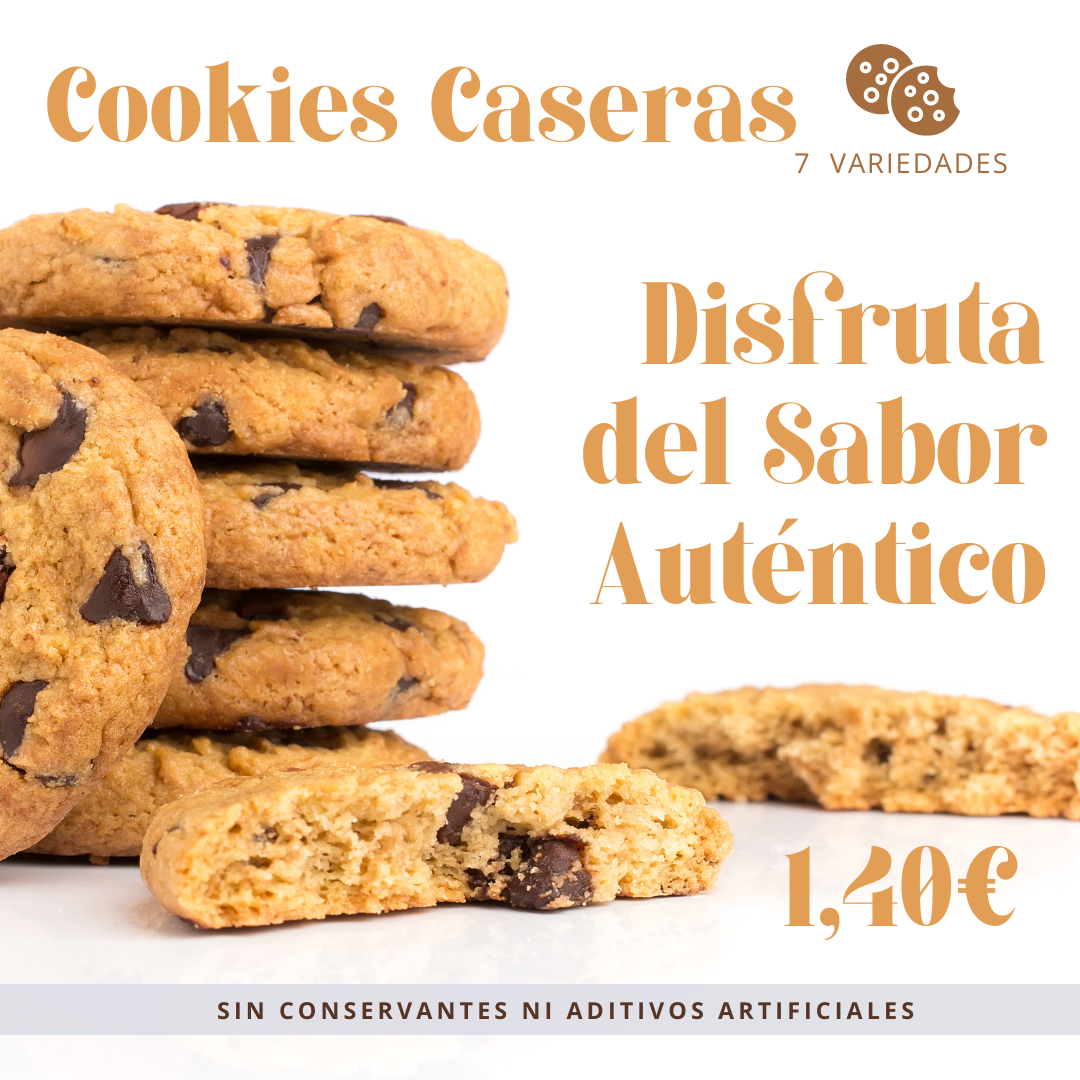
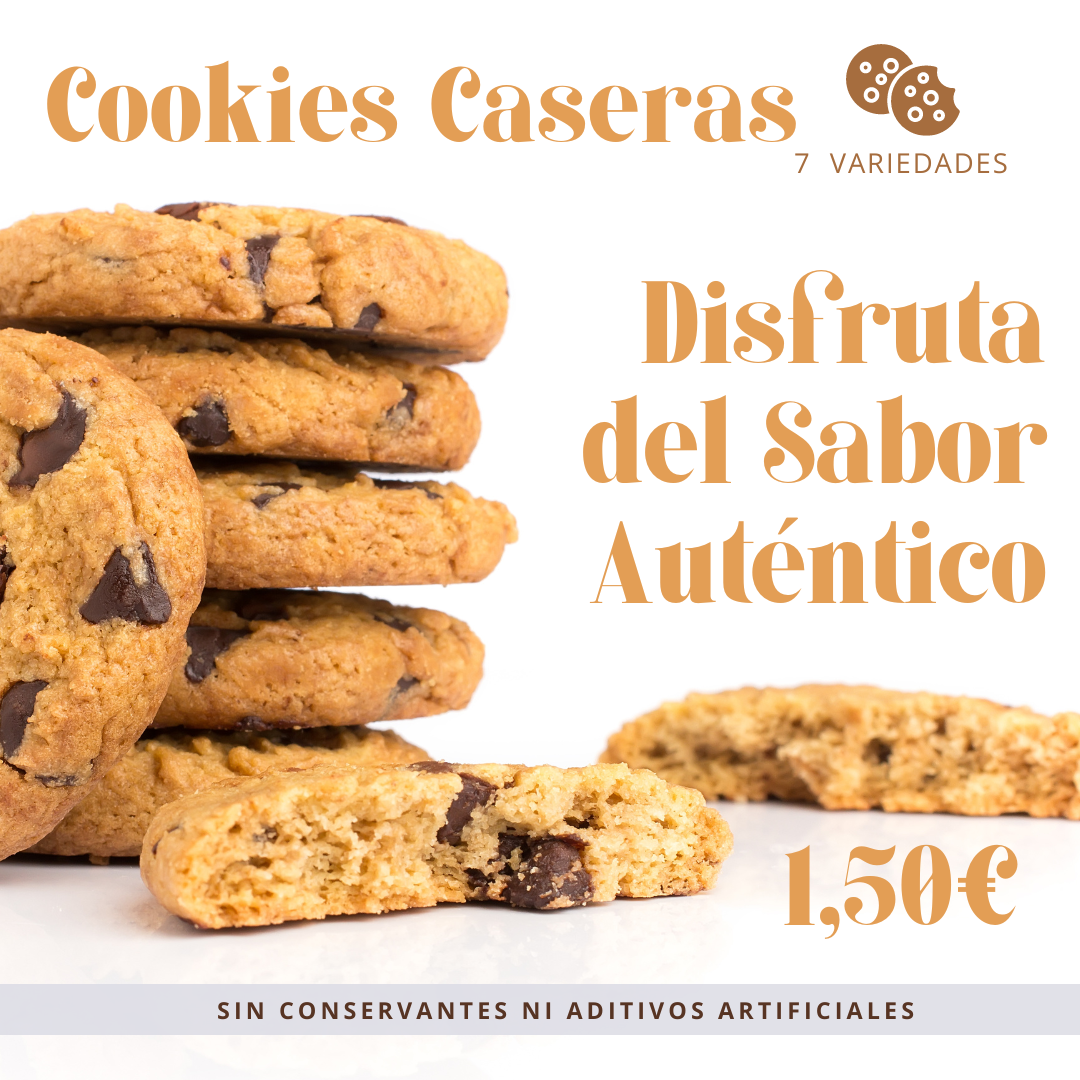
deploy: 894c5e8bc299e5bf3e7f7fc31a8815df647df799

diff --git a/index.html b/index.html
@@ -87,7 +87,7 @@ Carta</span></h2><div class=border-meghna></div></div></div></div><div class="ro
 <span>No hay nada con esos filtros, prueba a usar otros.</span></div></div><div id=menu-items class=d-none><figure class="col-lg-4 shuffle-item" data-groups='["0e4289bca67302dd005790003de478e2","b34b0f802613ce0a65924e6e6d56087d"]'><div class="menu-block mb-4"><a class=open-popup-inline href=#carta-img0><img class="lozad img-fluid" data-src=/carta/bewelcome_hua4a24952fda6eebb5dafff957c1e7196_62650_465x350_fit_q100_box.jpg alt="Be Welcome🍍🆕"><div class=caption><span>Be Welcome🍍🆕</span>
 <i class="las la-search"></i></div></a></div></figure><figure class="col-lg-4 shuffle-item" data-groups='["0e4289bca67302dd005790003de478e2","b34b0f802613ce0a65924e6e6d56087d"]'><div class="menu-block mb-4"><a class=open-popup-inline href=#carta-img1><img class="lozad img-fluid" data-src=/carta/boston_hu4cbe4d6e5e25aed4658e0730ecbf11c0_65285_465x350_fit_q100_box.jpg alt="Boston Beach🍓🆕"><div class=caption><span>Boston Beach🍓🆕</span>
 <i class="las la-search"></i></div></a></div></figure><figure class="col-lg-4 shuffle-item" data-groups='["ecf13d5ef58c49cc1a969b29140c8143","734300b6e0762615d0ee649310df1fda","3b0be7882cac5ce1fbe220f07400e2cd"]'><div class="menu-block mb-4"><a class=open-popup-inline href=#carta-img2><img class="lozad img-fluid" data-src=/carta/tarta_hu611a2356e7e6cb89778258ab8c3688b9_1671486_465x350_fit_q100_bgffffff_box_3.jpg alt="Café o té + Tarta del día"><div class=caption><span>Café o té + Tarta del día</span>
-<i class="las la-search"></i></div></a></div></figure><figure class="col-lg-4 shuffle-item" data-groups='["ecf13d5ef58c49cc1a969b29140c8143","734300b6e0762615d0ee649310df1fda"]'><div class="menu-block mb-4"><a class=open-popup-inline href=#carta-img3><img class="lozad img-fluid" data-src=/carta/cookiescaseras_huff57a1b69ea657f90009d692e6bed37c_1076562_465x350_fit_q100_bgffffff_box_3.jpg alt="Cookies Caseras"><div class=caption><span>Cookies Caseras</span>
+<i class="las la-search"></i></div></a></div></figure><figure class="col-lg-4 shuffle-item" data-groups='["ecf13d5ef58c49cc1a969b29140c8143","734300b6e0762615d0ee649310df1fda"]'><div class="menu-block mb-4"><a class=open-popup-inline href=#carta-img3><img class="lozad img-fluid" data-src=/carta/cookiescaseras_hucfdea37a3045e73786a0a99b461a5b8f_1078679_465x350_fit_q100_bgffffff_box_3.jpg alt="Cookies Caseras"><div class=caption><span>Cookies Caseras</span>
 <i class="las la-search"></i></div></a></div></figure><figure class="col-lg-4 shuffle-item" data-groups='["0e4289bca67302dd005790003de478e2","b34b0f802613ce0a65924e6e6d56087d"]'><div class="menu-block mb-4"><a class=open-popup-inline href=#carta-img4><img class="lozad img-fluid" data-src=/carta/dewarsspring_hu18de11d9656aa9ade0599bf2094ae55b_63597_465x350_fit_q100_box.jpeg alt="Dewars Spring 🌺 🆕"><div class=caption><span>Dewars Spring 🌺 🆕</span>
 <i class="las la-search"></i></div></a></div></figure><figure class="col-lg-4 shuffle-item" data-groups='["0e4289bca67302dd005790003de478e2","b34b0f802613ce0a65924e6e6d56087d"]'><div class="menu-block mb-4"><a class=open-popup-inline href=#carta-img5><img class="lozad img-fluid" data-src=/carta/dewarssummer_hua04bb9b1b9b5898eaf6af34280e8cc30_65864_465x350_fit_q100_box.jpeg alt="Dewars Summer 🌞 🆕"><div class=caption><span>Dewars Summer 🌞 🆕</span>
 <i class="las la-search"></i></div></a></div></figure><figure class="col-lg-4 shuffle-item" data-groups='["0e4289bca67302dd005790003de478e2","f4fb4e8d6bcb19d8b77736d08477c7b6"]'><div class="menu-block mb-4"><a class=open-popup-inline href=#carta-img6><img class="lozad img-fluid" data-src=/carta/gvine_hu9d4950b6ad860256462532afa33caa2c_229508_465x350_fit_q100_box.jpeg alt="G'Vine Floraisson & 1724 Tonic Water 🍇"><div class=caption><span>G'Vine Floraisson & 1724 Tonic Water 🍇</span>
@@ -111,7 +111,7 @@ Carta</span></h2><div class=border-meghna></div></div></div></div><div class="ro
 <i class="las la-search"></i></div></a></div></figure><figure class="col-lg-4 shuffle-item" data-groups='["988adb8ca725662baaf43e59102846c9","cba5a17a94dfdc401eed0eeda57a8987"]'><div class="menu-block mb-4"><a class=open-popup-inline href=#carta-img24><img class="lozad img-fluid" data-src=/carta/blondibeach_hu465e13f4cb88c8105318f2afd5493404_84466_465x350_fit_q100_box.jpg alt="Blondi Beach 🏖 🆕"><div class=caption><span>Blondi Beach 🏖 🆕</span>
 <i class="las la-search"></i></div></a></div></figure><figure class="col-lg-4 shuffle-item" data-groups='["0e4289bca67302dd005790003de478e2","5b38d4fc03d9b2af5b32aecb51f8d9b0"]'><div class="menu-block mb-4"><a class=open-popup-inline href=#carta-img25><img class="lozad img-fluid" data-src=/carta/259_huf4acd5730101742658c96732ba3e76df_77860_465x350_fit_q100_box.jpg alt="Bloody Mary"><div class=caption><span>Bloody Mary</span>
 <i class="las la-search"></i></div></a></div></figure><figure class="col-lg-4 shuffle-item" data-groups='["988adb8ca725662baaf43e59102846c9","cba5a17a94dfdc401eed0eeda57a8987"]'><div class="menu-block mb-4"><a class=open-popup-inline href=#carta-img26><img class="lozad img-fluid" data-src=/carta/42_huc5725952320edcebd0ea1c9ffbf83bd8_67386_465x350_fit_q100_box.jpg alt="Bloody Mary Free 🍎"><div class=caption><span>Bloody Mary Free 🍎</span>
-<i class="las la-search"></i></div></a></div></figure><figure class="col-lg-4 shuffle-item" data-groups='["ecf13d5ef58c49cc1a969b29140c8143","734300b6e0762615d0ee649310df1fda"]'><div class="menu-block mb-4"><a class=open-popup-inline href=#carta-img27><img class="lozad img-fluid" data-src=/carta/bocatin+ca%C3%B1a_hua0e691c2afc7b3457558937a3123a28d_1385041_465x350_fit_q100_bgffffff_box_3.jpg alt="Bocatín + Cañita/Vino + Café"><div class=caption><span>Bocatín + Cañita/Vino + Café</span>
+<i class="las la-search"></i></div></a></div></figure><figure class="col-lg-4 shuffle-item" data-groups='["ecf13d5ef58c49cc1a969b29140c8143","734300b6e0762615d0ee649310df1fda"]'><div class="menu-block mb-4"><a class=open-popup-inline href=#carta-img27><img class="lozad img-fluid" data-src=/carta/bocatin+ca%C3%B1ita+cafe_hu2f10508815c77bb1e63f2c2b03efa0b9_1404568_465x350_fit_q100_bgffffff_box_3.jpg alt="Bocatín + Cañita/Vino + Café"><div class=caption><span>Bocatín + Cañita/Vino + Café</span>
 <i class="las la-search"></i></div></a></div></figure><figure class="col-lg-4 shuffle-item" data-groups='["ecf13d5ef58c49cc1a969b29140c8143","734300b6e0762615d0ee649310df1fda"]'><div class="menu-block mb-4"><a class=open-popup-inline href=#carta-img28><img class="lozad img-fluid" data-src=/carta/bocatin+refresco_hue6708d6d42ae4a15a493e3764eff0dee_1429387_465x350_fit_q100_bgffffff_box_3.jpg alt="Bocatín + Refresco"><div class=caption><span>Bocatín + Refresco</span>
 <i class="las la-search"></i></div></a></div></figure><figure class="col-lg-4 shuffle-item" data-groups='["0e4289bca67302dd005790003de478e2","f4fb4e8d6bcb19d8b77736d08477c7b6"]'><div class="menu-block mb-4"><a class=open-popup-inline href=#carta-img29><img class="lozad img-fluid" data-src=/carta/bombaypresse_huf2b37705242986b0f35a706a9eee7a10_670138_465x350_fit_q100_box.jpeg alt="Bombay Presse & Fever Tree"><div class=caption><span>Bombay Presse & Fever Tree</span>
 <i class="las la-search"></i></div></a></div></figure><figure class="col-lg-4 shuffle-item" data-groups='["0e4289bca67302dd005790003de478e2","f4fb4e8d6bcb19d8b77736d08477c7b6"]'><div class="menu-block mb-4"><a class=open-popup-inline href=#carta-img30><img class="lozad img-fluid" data-src=/carta/bombaymurcian_hu505d8d1343b0b111b89405c7b44a0d1b_280325_465x350_fit_q100_box.jpeg alt="Bombay S. Premier Cru Murcian Lemon & Schweppes Toque de Lima"><div class=caption><span>Bombay S. Premier Cru Murcian Lemon & Schweppes Toque de Lima</span>
@@ -568,7 +568,7 @@ Todos los Batidos incluyen Nata y Toppings, si no desea Nata comuniqueló a su c
 <span class=field-title>PVP en local:</span>
 <span class=field-description>6,5€</span></p></div><div class=field-pvp_terraza><p><i class="field-icon las la-money-bill-wave"></i>
 <span class=field-title>PVP en terraza:</span>
-<span class=field-description>7€</span></p></div></div></div></div><div id=carta-img27 class="carta-img mfp-hide"><div class=popup-content><div class=popup-img><img class=lozad data-src=/carta/bocatin+ca%C3%B1a.png alt="Bocatín + Cañita/Vino + Café"></div><div class=popup-details><h1>Bocatín + Cañita/Vino + Café</h1><div class=field-txt_aclaraciones><p><i class="field-icon las la-info-circle"></i>
+<span class=field-description>7€</span></p></div></div></div></div><div id=carta-img27 class="carta-img mfp-hide"><div class=popup-content><div class=popup-img><img class=lozad data-src=/carta/bocatin+ca%C3%B1ita+cafe.png alt="Bocatín + Cañita/Vino + Café"></div><div class=popup-details><h1>Bocatín + Cañita/Vino + Café</h1><div class=field-txt_aclaraciones><p><i class="field-icon las la-info-circle"></i>
 <span class=field-description>Oferta válida de 7 a 12:30h</span></p></div><div class=field-pvp_local><p><i class="field-icon las la-money-bill-wave"></i>
 <span class=field-title>PVP en local:</span>
 <span class=field-description>3,25€ + Café 4,25€</span></p></div><div class=field-pvp_terraza><p><i class="field-icon las la-money-bill-wave"></i>
@@ -1767,9 +1767,9 @@ Todas las tardes de 16h a 22,30h con tu Cappuccino Gratis una Cookie casera a el
 <span class=field-description>6€</span></p></div></div></div></div><div id=carta-img147 class="carta-img mfp-hide"><div class=popup-content><div class=popup-img><img class=lozad data-src=/carta/sandwich+zumo.png alt="Sándwich Mixto + Zumo Natural"></div><div class=popup-details><h1>Sándwich Mixto + Zumo Natural</h1><div class=field-txt_aclaraciones><p><i class="field-icon las la-info-circle"></i>
 <span class=field-description>Oferta válida de 7 a 16h</span></p></div><div class=field-pvp_local><p><i class="field-icon las la-money-bill-wave"></i>
 <span class=field-title>PVP en local:</span>
-<span class=field-description>4€ Con rodajas de tomate 4,50€</span></p></div><div class=field-pvp_terraza><p><i class="field-icon las la-money-bill-wave"></i>
+<span class=field-description>4,50€ Con rodajas de tomate 5€</span></p></div><div class=field-pvp_terraza><p><i class="field-icon las la-money-bill-wave"></i>
 <span class=field-title>PVP en terraza:</span>
-<span class=field-description>4,50€ Con rodajas de tomate 5€</span></p></div></div></div></div><div id=carta-img148 class="carta-img mfp-hide"><div class=popup-content><div class=popup-img><img class=lozad data-src=/carta/325.jpg alt="Sangría Jamaicana"></div><div class=popup-details><h1>Sangría Jamaicana</h1><div class=field-ingredientes><p><i class="field-icon las la-book"></i>
+<span class=field-description>5€ Con rodajas de tomate 5,5€</span></p></div></div></div></div><div id=carta-img148 class="carta-img mfp-hide"><div class=popup-content><div class=popup-img><img class=lozad data-src=/carta/325.jpg alt="Sangría Jamaicana"></div><div class=popup-details><h1>Sangría Jamaicana</h1><div class=field-ingredientes><p><i class="field-icon las la-book"></i>
 <span class=field-title>Ingredientes:</span>
 <span class=field-description>Rón Captain Morgan, Chartreuse amarillo, Granadina, Zumo de Limón, Trocitos de frutas tropicales y Azúcar.</span></p></div><div class=field-txt_temporal><p><i class="field-icon las la-calendar-alt"></i>
 <span class=field-title>Temporalidad:</span>
